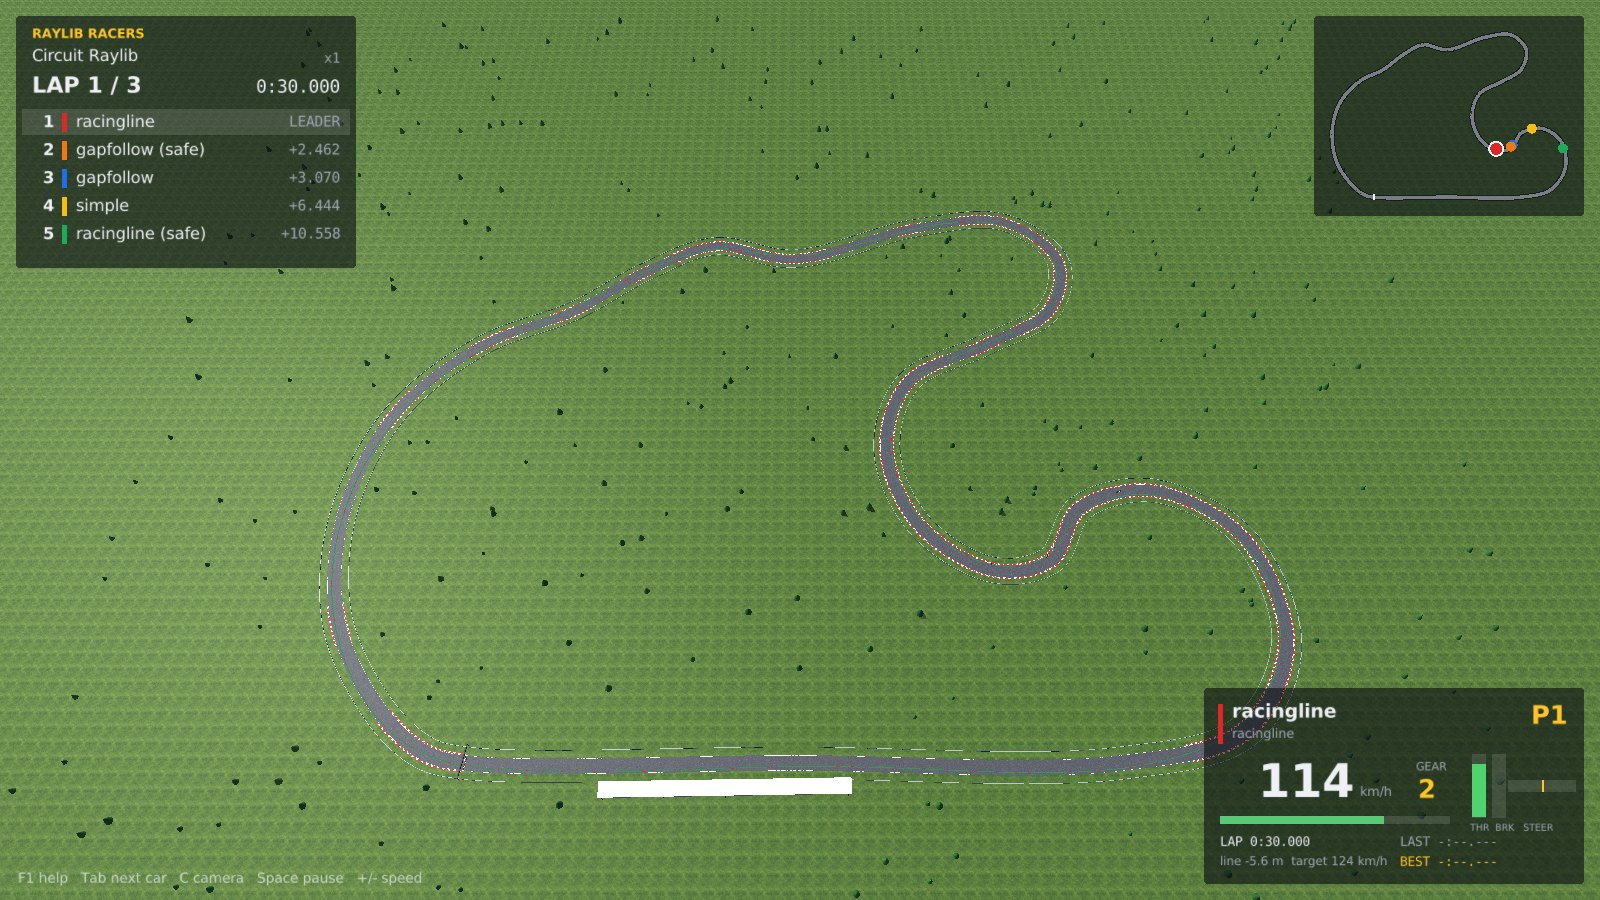
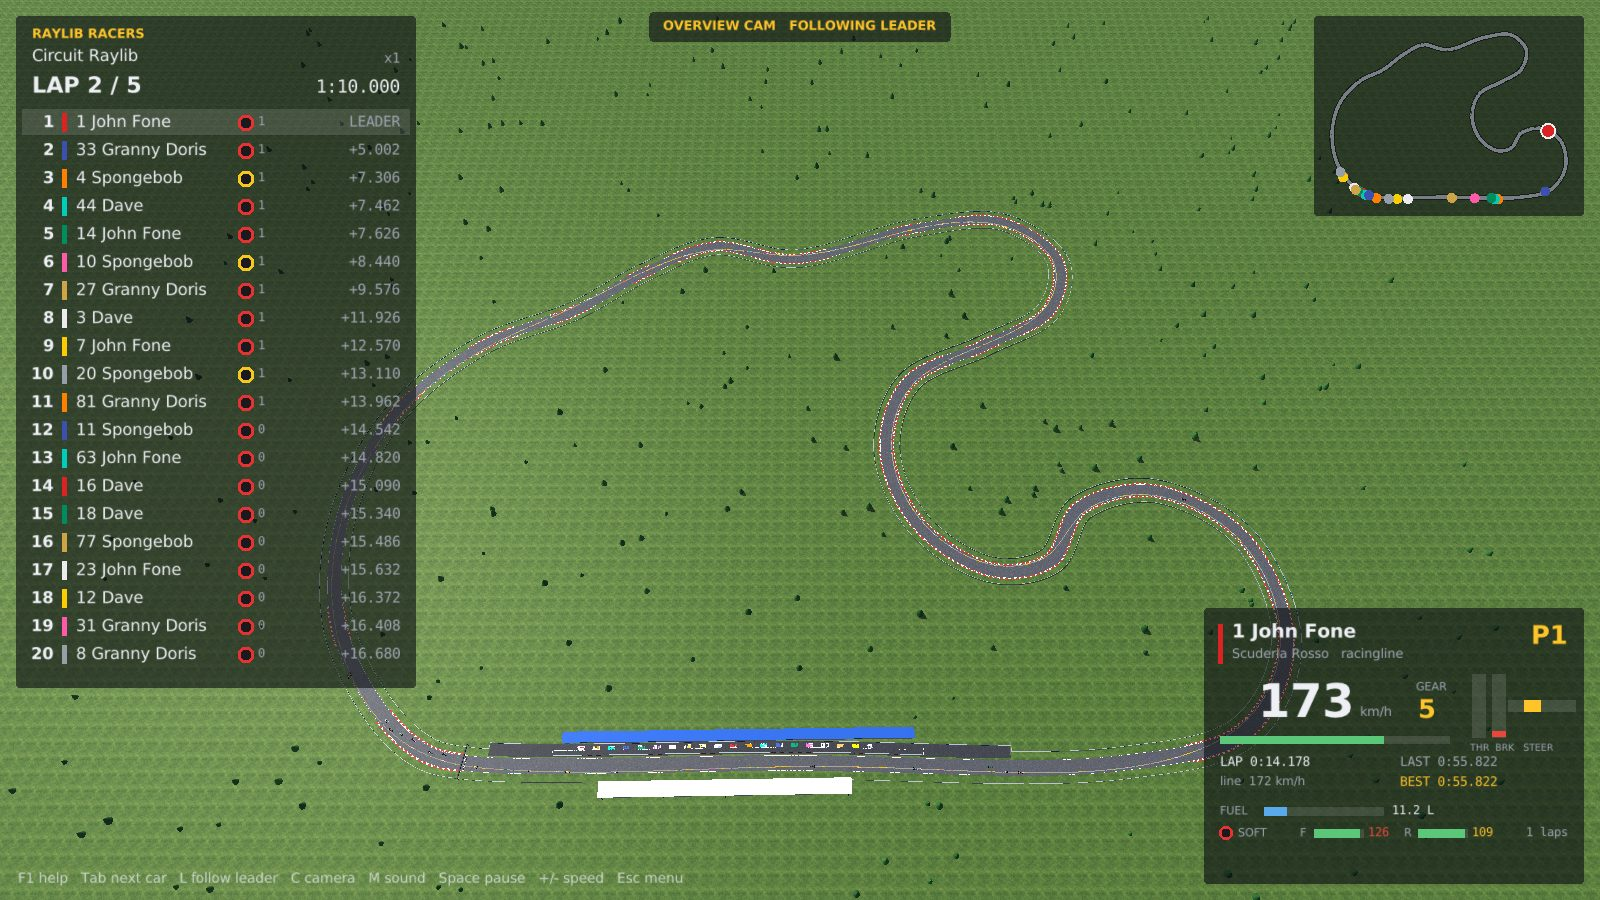
README: new screenshots of the current viewer, menu, testing and race end (#17)
Claude-Session: https://claude.ai/code/session_01MXCMaFDgh5hYzjUWemfwK3

diff --git a/README.md b/README.md
@@ -42,6 +42,9 @@ of times real time for experiments, or in a raylib 3D viewer to watch them.
 | ![Cinematic camera](docs/images/cinematic.jpg) | ![Helicopter camera](docs/images/helicopter.jpg) |
 | ![Orbit camera](docs/images/orbit.jpg) | ![TV camera](docs/images/tv.jpg) |
 | ![Pit stop: the car is held in its box while the crew works](docs/images/pitstop.jpg) | ![Pit lane: speed limiter on, heading for the box](docs/images/pitlane.jpg) |
+| ![Race setup menu](docs/images/menu.jpg) | ![Grid page: livery, algorithm and start tyres per car, and the style stats button](docs/images/grid.jpg) |
+| ![Testing: telemetry dashboard while scrubbing a run](docs/images/testing.jpg) | ![Testing: track and events window with the delta to the best lap](docs/images/testing_track.jpg) |
+| ![Race end: results with the fastest lap](docs/images/results.jpg) | ![Race end: lap chart](docs/images/lapchart.jpg) |
 
 ## Build
 
